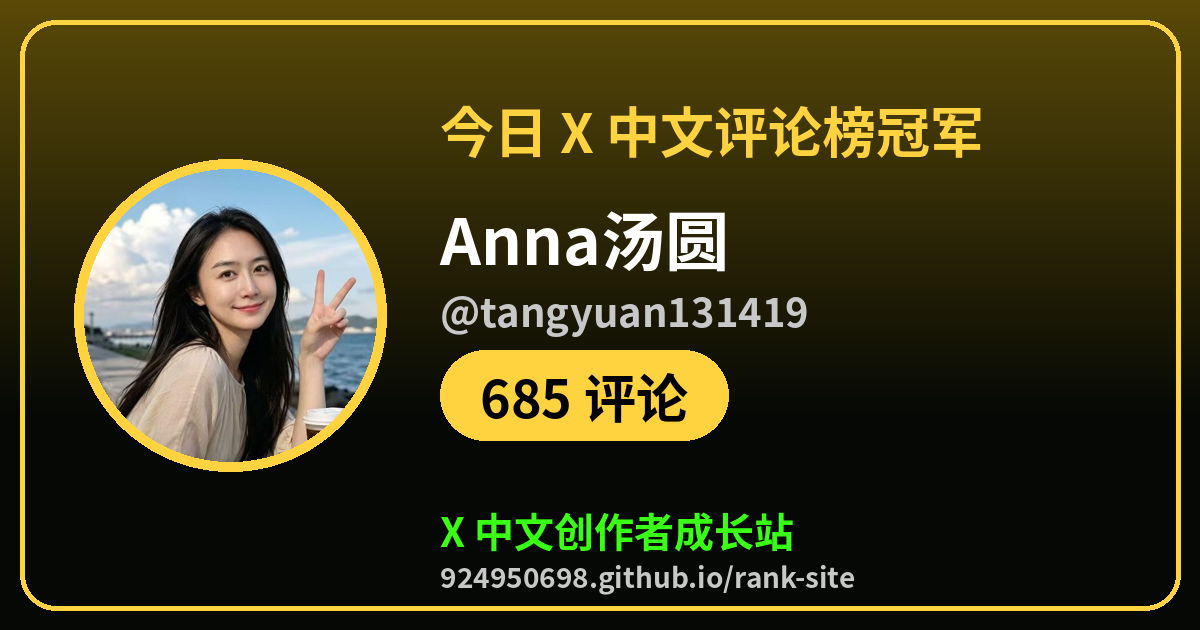
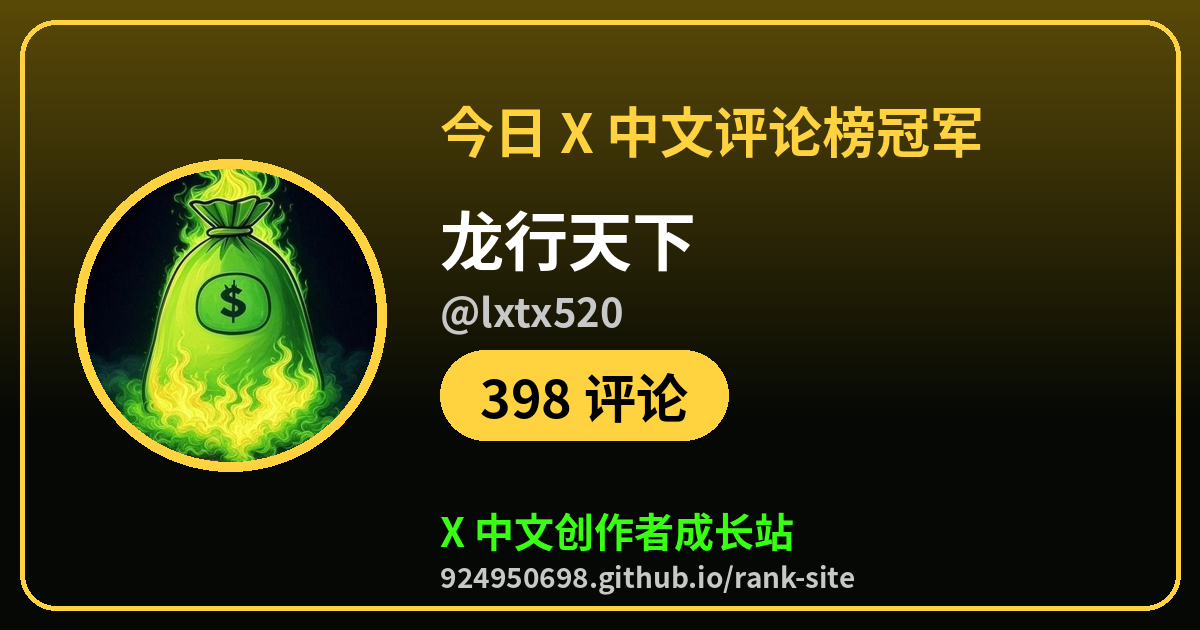
champ pages: 2026-10-21 12:23 CST

Changed region(s): [[0.0617, 0.2714, 0.3392, 0.754], [0.37, 0.3317, 0.6783, 0.5429], [0.4008, 0.6032, 0.4933, 0.6635]]

diff --git a/champ/comments.html b/champ/comments.html
@@ -1,7 +1,7 @@
 <!doctype html><html lang="zh-CN"><head><meta charset="utf-8"><meta name="viewport" content="width=device-width,initial-scale=1">
-<title>今日 X 中文评论榜冠军：Anna汤圆🦅（@tangyuan131419）</title><meta name="description" content="685 评论，来看看今天谁在爆，你排第几">
-<meta property="og:type" content="website"><meta property="og:url" content="https://924950698.github.io/rank-site/champ/comments.html"><meta property="og:title" content="今日 X 中文评论榜冠军：Anna汤圆🦅（@tangyuan131419）"><meta property="og:description" content="685 评论，来看看今天谁在爆，你排第几">
-<meta property="og:image" content="https://924950698.github.io/rank-site/champ/comments.png?v=20261021T0303"><meta name="twitter:card" content="summary_large_image"><meta name="twitter:site" content="@tigerr3aue">
-<meta name="twitter:title" content="今日 X 中文评论榜冠军：Anna汤圆🦅（@tangyuan131419）"><meta name="twitter:description" content="685 评论，来看看今天谁在爆，你排第几"><meta name="twitter:image" content="https://924950698.github.io/rank-site/champ/comments.png?v=20261021T0303">
-<meta http-equiv="refresh" content="0;url=https://924950698.github.io/rank-site/?champ=tangyuan131419&amp;board=comments#rank"><script>location.replace("https://924950698.github.io/rank-site/?champ=tangyuan131419&board=comments#rank")</script></head>
-<body style="background:#000;color:#fff;font-family:sans-serif;text-align:center;padding:40px"><a href="https://924950698.github.io/rank-site/?champ=tangyuan131419&amp;board=comments#rank" style="color:#39ff14">去 X 中文创作者成长站看冠军卡片</a></body></html>
+<title>今日 X 中文评论榜冠军：龙行天下（@lxtx520）</title><meta name="description" content="398 评论，来看看今天谁在爆，你排第几">
+<meta property="og:type" content="website"><meta property="og:url" content="https://924950698.github.io/rank-site/champ/comments.html"><meta property="og:title" content="今日 X 中文评论榜冠军：龙行天下（@lxtx520）"><meta property="og:description" content="398 评论，来看看今天谁在爆，你排第几">
+<meta property="og:image" content="https://924950698.github.io/rank-site/champ/comments.png?v=20261021T0405"><meta name="twitter:card" content="summary_large_image"><meta name="twitter:site" content="@tigerr3aue">
+<meta name="twitter:title" content="今日 X 中文评论榜冠军：龙行天下（@lxtx520）"><meta name="twitter:description" content="398 评论，来看看今天谁在爆，你排第几"><meta name="twitter:image" content="https://924950698.github.io/rank-site/champ/comments.png?v=20261021T0405">
+<meta http-equiv="refresh" content="0;url=https://924950698.github.io/rank-site/?champ=lxtx520&amp;board=comments#rank"><script>location.replace("https://924950698.github.io/rank-site/?champ=lxtx520&board=comments#rank")</script></head>
+<body style="background:#000;color:#fff;font-family:sans-serif;text-align:center;padding:40px"><a href="https://924950698.github.io/rank-site/?champ=lxtx520&amp;board=comments#rank" style="color:#39ff14">去 X 中文创作者成长站看冠军卡片</a></body></html>

diff --git a/champ/exposure.html b/champ/exposure.html
@@ -1,7 +1,7 @@
 <!doctype html><html lang="zh-CN"><head><meta charset="utf-8"><meta name="viewport" content="width=device-width,initial-scale=1">
 <title>今日 X 中文曝光榜冠军：七安（@MengQue65180）</title><meta name="description" content="89.7万 曝光，来看看今天谁在爆，你排第几">
 <meta property="og:type" content="website"><meta property="og:url" content="https://924950698.github.io/rank-site/champ/exposure.html"><meta property="og:title" content="今日 X 中文曝光榜冠军：七安（@MengQue65180）"><meta property="og:description" content="89.7万 曝光，来看看今天谁在爆，你排第几">
-<meta property="og:image" content="https://924950698.github.io/rank-site/champ/exposure.png?v=20261021T0303"><meta name="twitter:card" content="summary_large_image"><meta name="twitter:site" content="@tigerr3aue">
-<meta name="twitter:title" content="今日 X 中文曝光榜冠军：七安（@MengQue65180）"><meta name="twitter:description" content="89.7万 曝光，来看看今天谁在爆，你排第几"><meta name="twitter:image" content="https://924950698.github.io/rank-site/champ/exposure.png?v=20261021T0303">
+<meta property="og:image" content="https://924950698.github.io/rank-site/champ/exposure.png?v=20261021T0405"><meta name="twitter:card" content="summary_large_image"><meta name="twitter:site" content="@tigerr3aue">
+<meta name="twitter:title" content="今日 X 中文曝光榜冠军：七安（@MengQue65180）"><meta name="twitter:description" content="89.7万 曝光，来看看今天谁在爆，你排第几"><meta name="twitter:image" content="https://924950698.github.io/rank-site/champ/exposure.png?v=20261021T0405">
 <meta http-equiv="refresh" content="0;url=https://924950698.github.io/rank-site/?champ=MengQue65180&amp;board=exposure#rank"><script>location.replace("https://924950698.github.io/rank-site/?champ=MengQue65180&board=exposure#rank")</script></head>
 <body style="background:#000;color:#fff;font-family:sans-serif;text-align:center;padding:40px"><a href="https://924950698.github.io/rank-site/?champ=MengQue65180&amp;board=exposure#rank" style="color:#39ff14">去 X 中文创作者成长站看冠军卡片</a></body></html>
